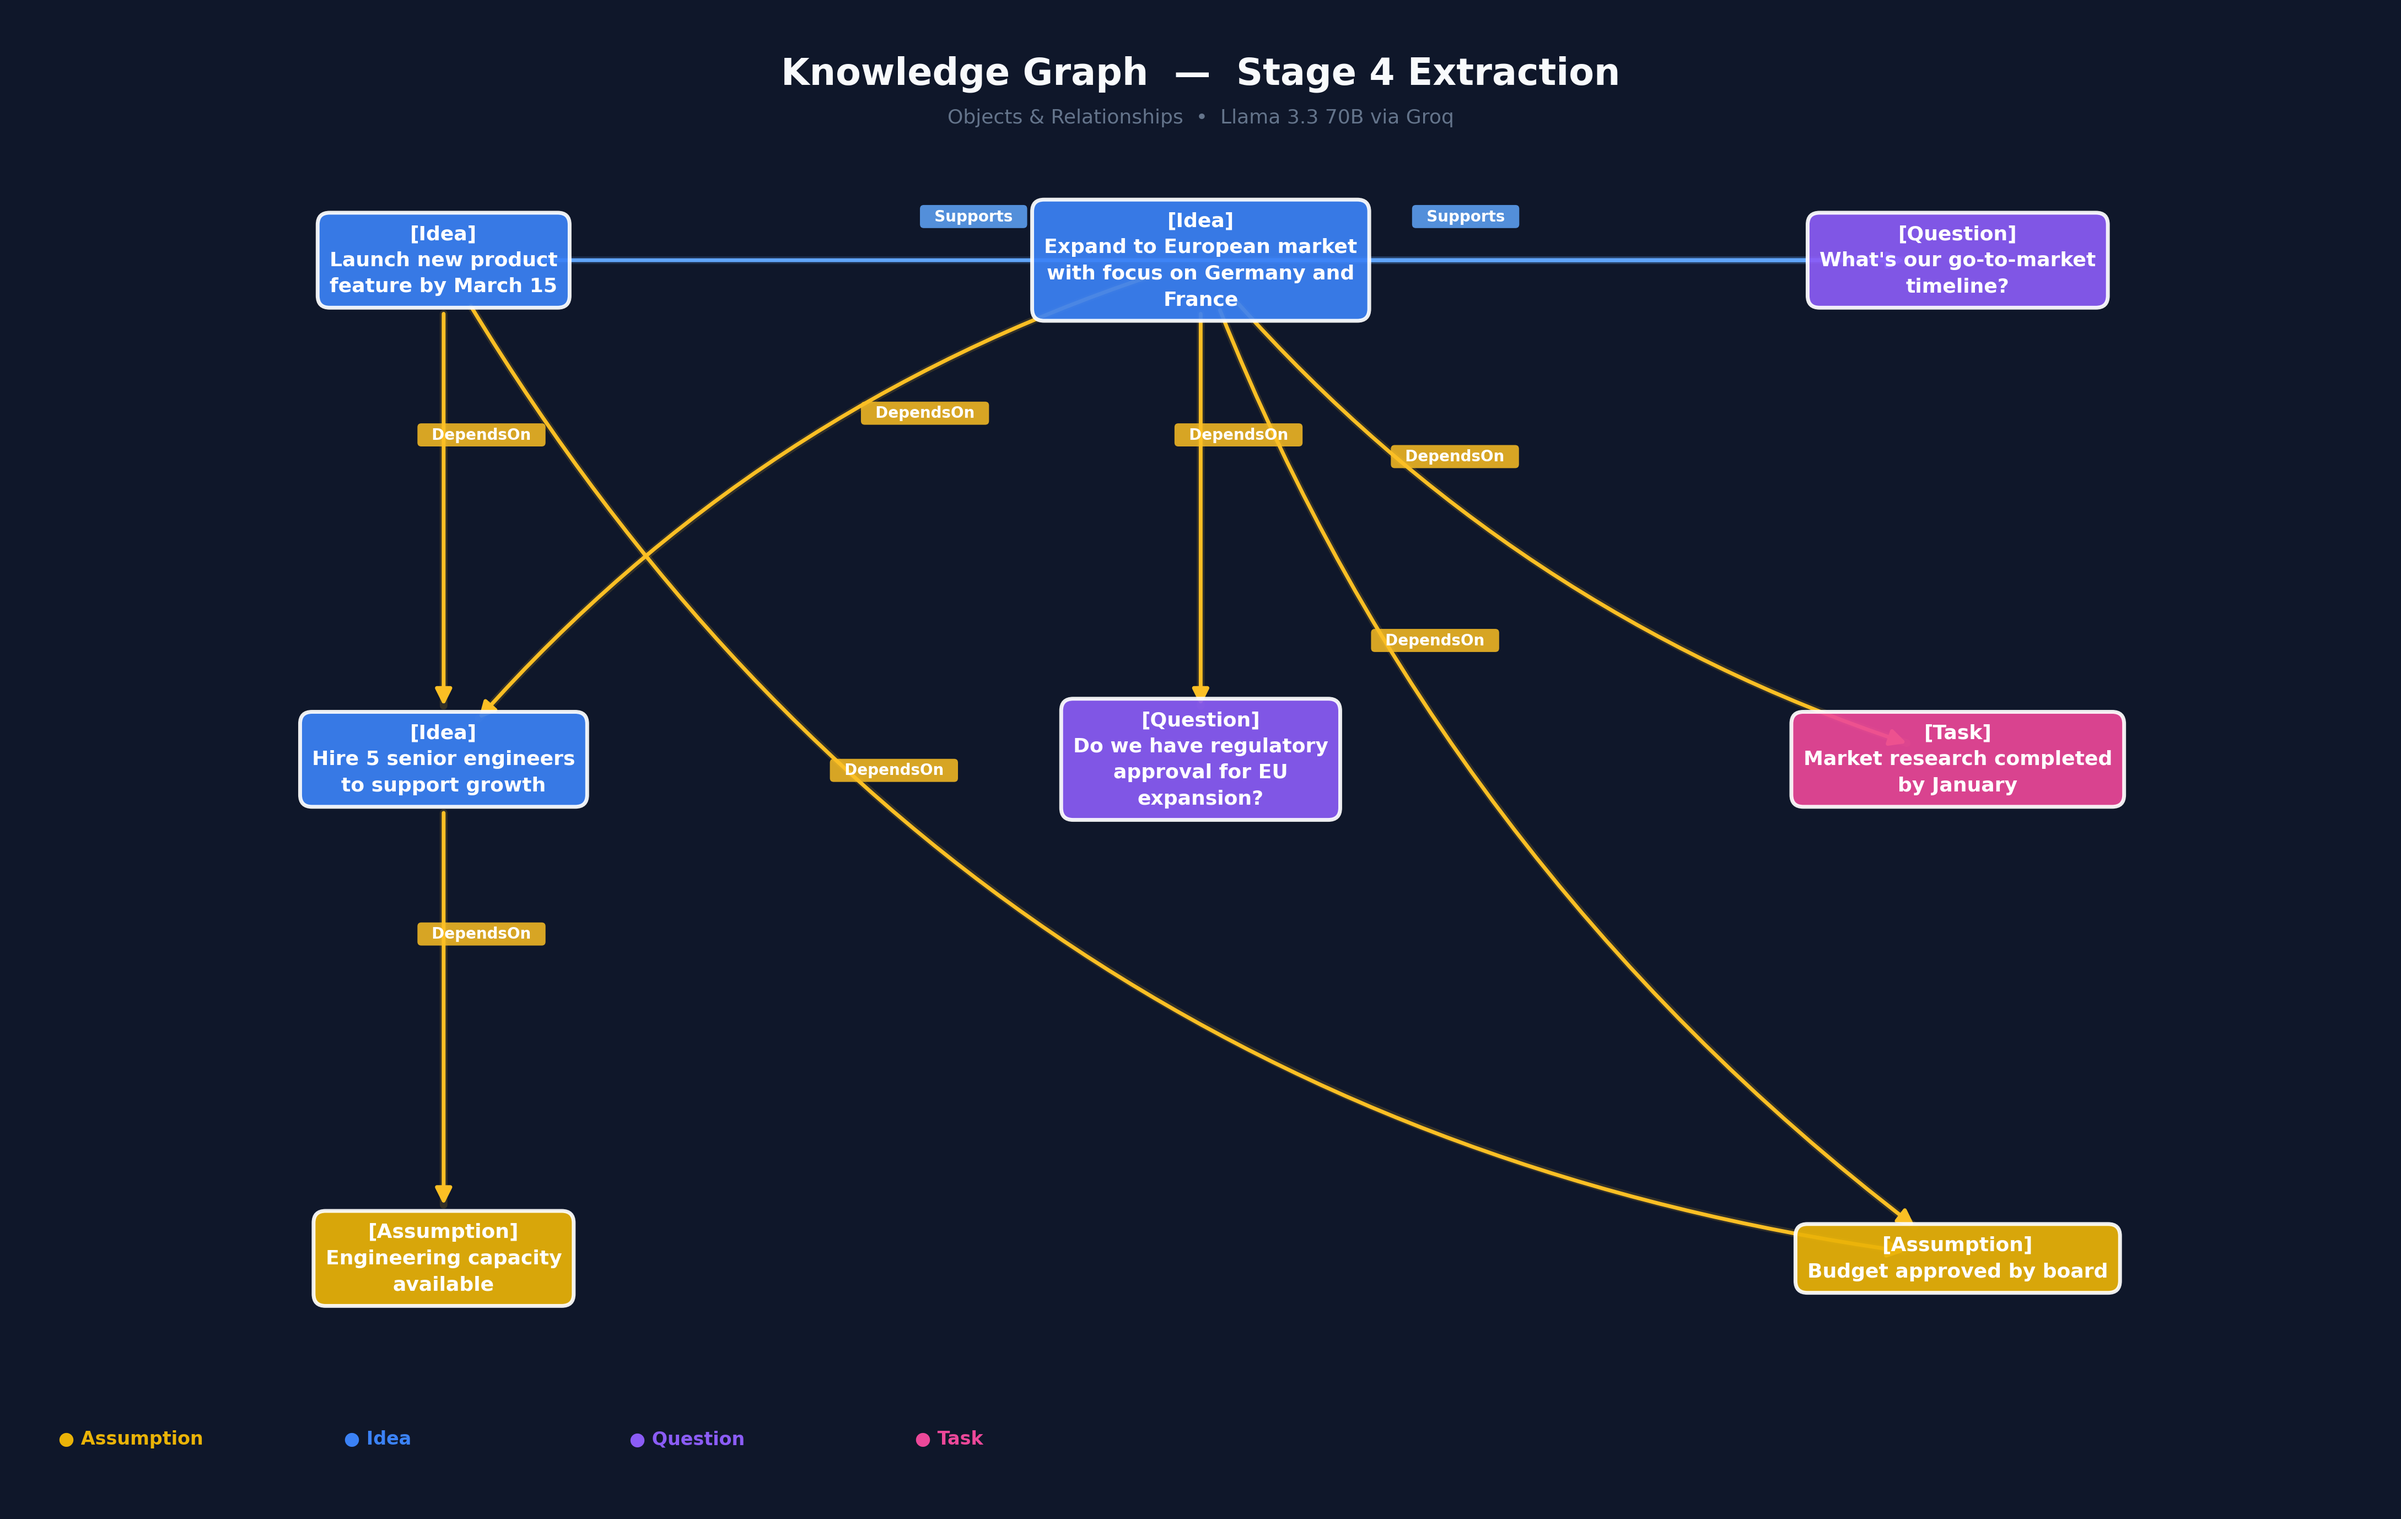
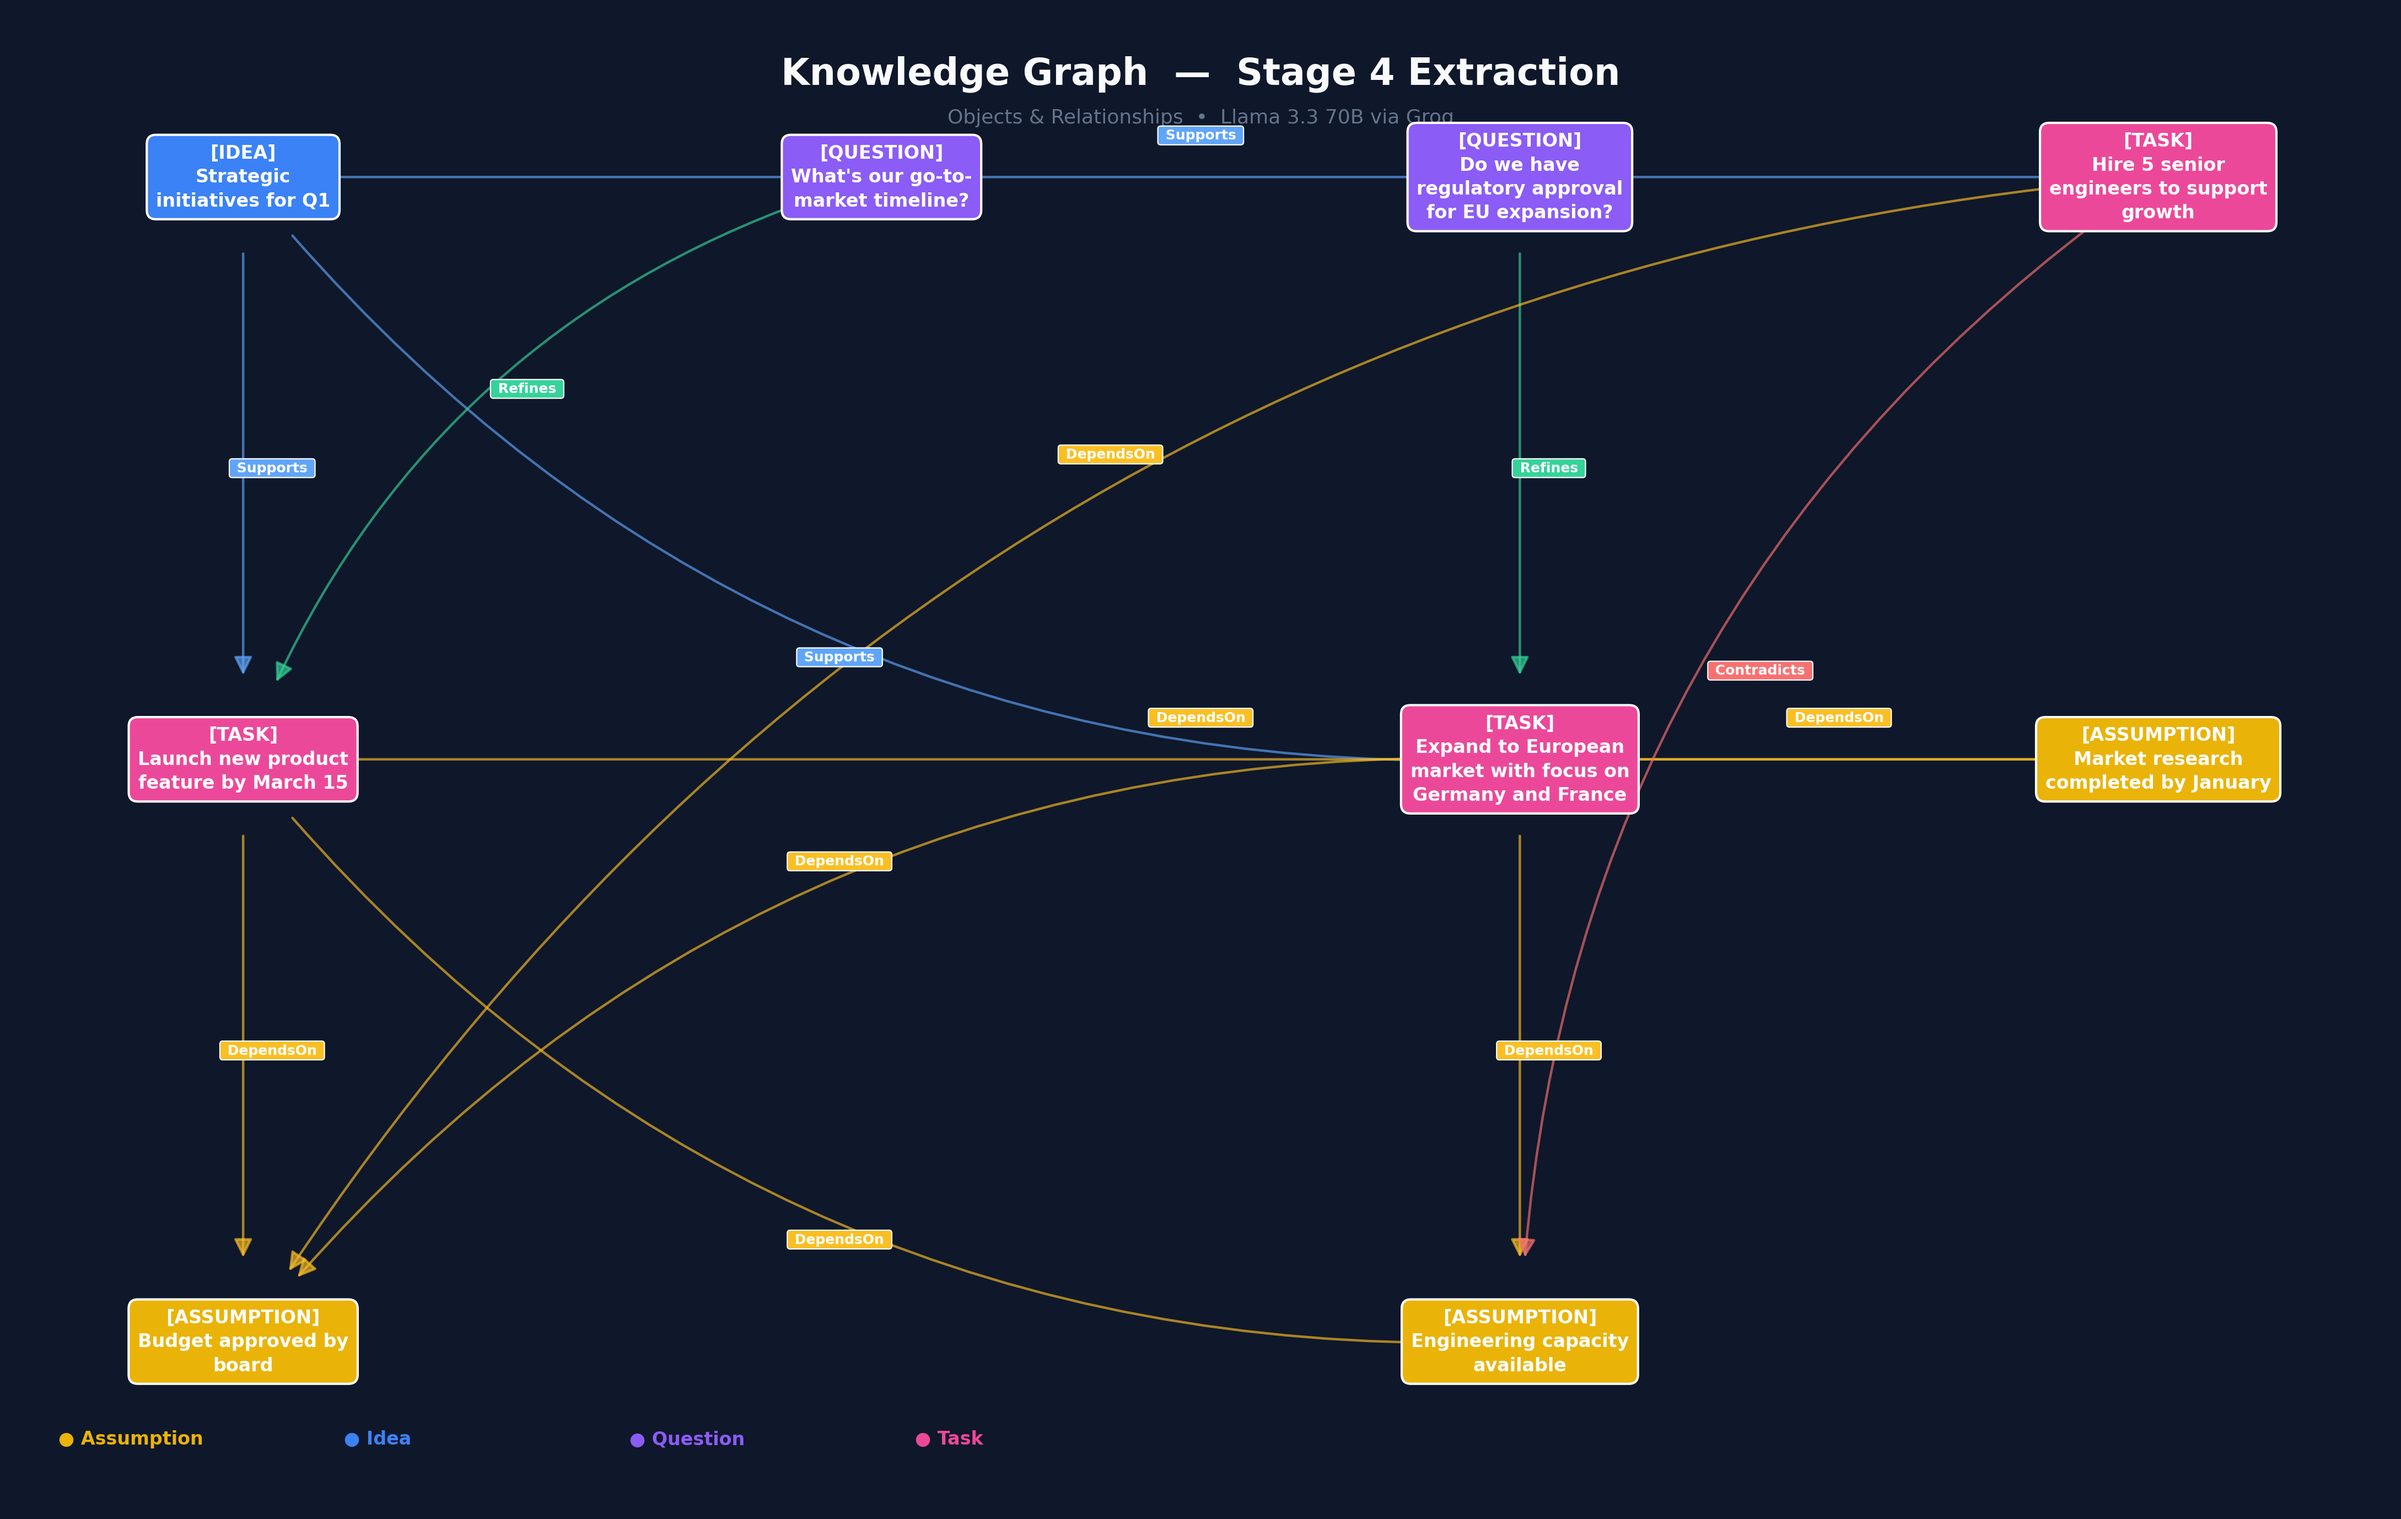
Polished Knowledge Graph: Automated visualization, executive-ready aesthetics, and refined relationship extraction.

diff --git a/visualize_graph.py b/visualize_graph.py
@@ -74,21 +74,22 @@ def visualize(graph: KnowledgeGraph, output_path: str = 'knowledge_graph.png'):
         color = TYPE_COLORS.get(obj_type, '#64748B')
         x, y = pos[node]
 
-        # Wrap text and add type header
-        wrapped = textwrap.fill(raw_text, width=25)
-        label = f"[{obj_type}]\n{wrapped}"
+        # Wrap text and add type header - truncate if too long for executive view
+        clean_text = raw_text if len(raw_text) < 60 else raw_text[:57] + "..."
+        wrapped = textwrap.fill(clean_text, width=20)
+        label = f"[{obj_type.upper()}]\n{wrapped}"
 
         # Use matplotlib's bbox — it auto-sizes perfectly to text
         ax.text(x, y, label,
-            fontsize=13, fontweight='bold', color='#FFFFFF',
+            fontsize=12, fontweight='bold', color='#FFFFFF',
             ha='center', va='center', fontfamily='sans-serif',
-            linespacing=1.5, zorder=10,
+            linespacing=1.4, zorder=10,
             bbox=dict(
-                boxstyle='round,pad=0.6',
+                boxstyle='round,pad=0.5',
                 facecolor=color,
                 edgecolor='#FFFFFF',
-                linewidth=2.5,
-                alpha=0.92,
+                linewidth=1.5,
+                alpha=1.0, # Solid for better contrast
             ))
 
         node_positions[node] = (x, y)
@@ -110,7 +111,8 @@ def visualize(graph: KnowledgeGraph, output_path: str = 'knowledge_graph.png'):
             rad = 0.0
         else:
             sign = 1 if idx % 2 == 1 else -1
-            rad = sign * (0.35 + 0.2 * ((idx - 1) // 2))
+            # Increased base curvature for better separation of duplicate lines
+            rad = sign * (0.45 + 0.25 * ((idx - 1) // 2))
 
         # Cross-column edges: gentle curve to avoid crossing nodes
         col_dist = abs(x1 - x2)
@@ -118,55 +120,52 @@ def visualize(graph: KnowledgeGraph, output_path: str = 'knowledge_graph.png'):
         if col_dist > 1 and row_dist > 1 and rad == 0:
             rad = 0.25 if col_dist > 8 else 0.15
 
-        # Arrow with subtle glow effect
-        # Glow layer (wider, translucent)
+        # Main arrow - Simple, clean directionality
         ax.annotate('',
             xy=(x2, y2), xytext=(x1, y1),
             arrowprops=dict(
-                arrowstyle='-', color=ec, lw=5, alpha=0.15,
+                arrowstyle='-|>', color=ec, lw=1.6, 
+                mutation_scale=25, 
                 connectionstyle=f'arc3,rad={rad}',
-                shrinkA=35, shrinkB=35,
-            ),
-            zorder=4)
-        # Main arrow
-        ax.annotate('',
-            xy=(x2, y2), xytext=(x1, y1),
-            arrowprops=dict(
-                arrowstyle='-|>', color=ec, lw=2.5,
-                mutation_scale=22,
-                connectionstyle=f'arc3,rad={rad}',
-                shrinkA=35, shrinkB=35,
+                shrinkA=50, 
+                shrinkB=55, 
+                alpha=0.65,
             ),
             zorder=5)
-
+        
         # ── Edge label ON the Bézier curve with background pill ──
-        # matplotlib arc3 control point: mid + rad*(dy, -dx)
         midx, midy = (x1 + x2) / 2, (y1 + y2) / 2
         dx, dy = x2 - x1, y2 - y1
         cx = midx + rad * dy
         cy = midy - rad * dx
-        # Stagger label position for duplicates so they don't overlap
-        t = 0.35 + idx * 0.15  # 0.35, 0.50, 0.65, ...
-        t = min(t, 0.7)        # cap so labels stay away from target node
+        
+        # t=0.5 is the exact center of the curve.
+        # For long executive-spaced lines, staying centered is clearest.
+        t = 0.5
+            
         bx = (1-t)**2 * x1 + 2*(1-t)*t * cx + t**2 * x2
         by = (1-t)**2 * y1 + 2*(1-t)*t * cy + t**2 * y2
 
-        # Small nudge away from the curve for readability
+        # Small nudge to place label ABOVE the curve rather than ON it
         length = max((dx**2 + dy**2) ** 0.5, 0.001)
         px, py = -dy / length, dx / length
+        nudge_dist = 0.5  # Fixed distance from the line
+        
+        # Ensure nudge is always "outward" from the center of curvature
         nudge_sign = 1 if rad >= 0 else -1
-        bx += px * nudge_sign * 0.35
-        by += py * nudge_sign * 0.35
+        bx += px * nudge_sign * nudge_dist
+        by += py * nudge_sign * nudge_dist
 
         # Background pill + text
-        ax.text(bx, by, f'  {lt}  ',
-            fontsize=10, color='#FFFFFF', fontweight='bold',
+        ax.text(bx, by, f' {lt} ',
+            fontsize=9, color='#FFFFFF', fontweight='bold',
             ha='center', va='center', fontfamily='sans-serif',
-            zorder=7,
+            zorder=12,
             bbox=dict(
-                boxstyle='round,pad=0.25',
-                facecolor=ec, edgecolor='none',
-                alpha=0.85,
+                boxstyle='round,pad=0.2',
+                facecolor=ec, edgecolor='#FFFFFF',
+                linewidth=0.8,
+                alpha=1.0, 
             ))
 
     # ── Title ──
@@ -218,8 +217,8 @@ def _presentation_layout(G):
         chains.append(remaining)
 
     pos = {}
-    col_spacing = 7.0
-    row_spacing = 4.0
+    col_spacing = 11.0
+    row_spacing = 7.0
     total_width = (len(chains) - 1) * col_spacing
     start_x = -total_width / 2
 

diff --git a/test_graph_queries.py b/test_graph_queries.py
@@ -1,0 +1,53 @@
+import networkx as nx
+from ml.graph import KnowledgeGraph
+from ml.extraction import ExtractedObject, Link
+
+def test_graph_intelligence():
+    print("\n[GRAPH TEST] INITIALIZING KNOWLEDGE GRAPH...")
+    kg = KnowledgeGraph()
+
+    # 1. Mock Data from Demo Output
+    objects = [
+        ExtractedObject(id="obj_001", type="Idea", canonical_text="Strategic initiatives for Q1", confidence=1.0),
+        ExtractedObject(id="obj_004", type="Task", canonical_text="Launch product feature", confidence=1.0),
+        ExtractedObject(id="obj_007", type="Assumption", canonical_text="Budget approved", confidence=1.0),
+        ExtractedObject(id="obj_006", type="Task", canonical_text="Hire 5 engineers", confidence=1.0),
+        ExtractedObject(id="obj_008", type="Assumption", canonical_text="Engineering capacity available", confidence=1.0),
+    ]
+    
+    links = [
+        Link(source_id="obj_004", target_id="obj_007", type="DependsOn", confidence=0.9),
+        Link(source_id="obj_006", target_id="obj_007", type="DependsOn", confidence=0.8),
+        Link(source_id="obj_006", target_id="obj_008", type="Contradicts", confidence=0.7), # A test contradiction
+        Link(source_id="obj_001", target_id="obj_004", type="Supports", confidence=0.9),
+    ]
+
+    kg.add_objects(objects)
+    kg.add_links(links)
+
+    # 2. Test Centrality (The "Core Concepts")
+    print("\n[QUERY 1] IDENTIFYING CORE CONCEPTS (Centrality)...")
+    centrality = kg.custom_centrality()
+    sorted_centrality = sorted(centrality.items(), key=lambda x: x[1], reverse=True)
+    for node_id, score in sorted_centrality[:3]:
+        text = kg.graph.nodes[node_id]['canonical_text']
+        print(f"   -> {node_id}: \"{text}\" (Centrality: {score:.2f})")
+
+    # 3. Test Contradictions
+    print("\n[QUERY 2] FINDING SEMANTIC CONTRADICTIONS...")
+    contradictions = kg.find_contradictions()
+    if contradictions:
+        for c in contradictions:
+            print(f"   ⚠ WARNING: \"{c['source']['canonical_text']}\" CONTRADICTS \"{c['target']['canonical_text']}\" (Conf: {c['edge']['confidence']})")
+    else:
+        print("   ✓ No contradictions found.")
+
+    # 4. Test Subgraph (Context)
+    print("\n[QUERY 3] RETRIEVING SUBGRAPH FOR 'obj_006' (Context)...")
+    subgraph = kg.get_subgraph("obj_006", depth=1)
+    print(f"   -> Found {len(subgraph['nodes'])} related nodes and {len(subgraph['links'])} connections.")
+    for link in subgraph['links']:
+        print(f"      - {link['source']} --[{link['type']}]--> {link['target']}")
+
+if __name__ == "__main__":
+    test_graph_intelligence()

diff --git a/demo.py b/demo.py
@@ -13,6 +13,7 @@ from ml.extraction import LLMExtractor
 from ml.graph import KnowledgeGraph
 from ml.search import HybridSearchEngine
 from ml.intelligence import IntelligenceLayer
+from visualize_graph import visualize
 
 def main():
     print("\n" + "="*60)
@@ -132,6 +133,17 @@ Open questions:
     for insight in intelligence_insights:
         print(f"   -> [INSIGHT] {insight['type']}: {insight['text']} ({insight['message']})")
     
+    # 9. Visualization
+    print(f"\n[STEP 8] KNOWLEDGE GRAPH VISUALIZATION (Generating PNG)")
+    output_png = "knowledge_graph.png"
+    visualize(graph, output_png)
+    
+    # Auto-open on macOS
+    import platform
+    if platform.system() == "Darwin":
+        print(f"   -> Opening {output_png}...")
+        os.system(f"open {output_png}")
+
     print("\n" + "="*60 + "\n")
 
 if __name__ == "__main__":

diff --git a/ml/extraction.py b/ml/extraction.py
@@ -439,7 +439,12 @@ Return JSON:
   ]
 }}
 
-Be exhaustive but precise. Only include relationships where there is a clear semantic connection supported by the text."""
+Be exhaustive and highly perceptive. Look for:
+1. PREREQUISITES: Does X need Y to happen first? (DependsOn)
+2. CONFLICTS: Does X imply Y is not true or redundant? (Contradicts)
+3. DETAILS: Does X provide a specific number, name, or date for Y? (Refines)
+
+Only include relationships where there is a clear semantic connection supported by the text."""
 
         try:
             response = self.client.chat.completions.create(
